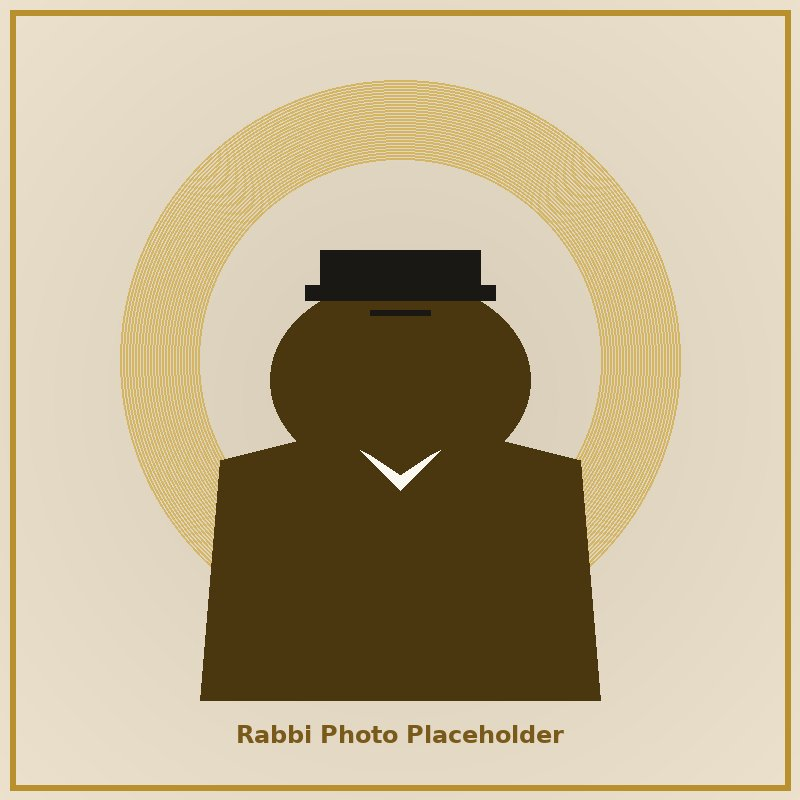
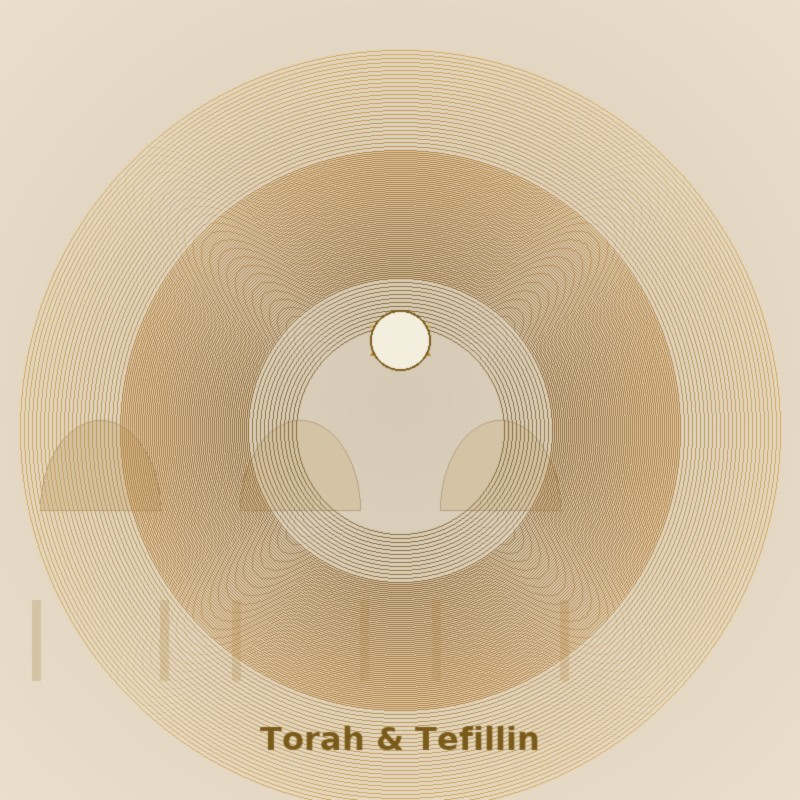
Add scroll-to-top floating button (gold, bottom-left), proper Rabbi placeholder, object-position for portrait centering, fix all standalone image URLs to point to arena branch

diff --git a/style.css b/style.css
@@ -1062,6 +1062,7 @@ ul, ol {
   width: 100%;
   height: 100%;
   object-fit: cover;
+  object-position: center 30%;
   display: block;
 }
 
@@ -2507,8 +2508,67 @@ ul, ol {
 }
 
 /* ──────────────────────────────────────────────────────────────────────────
-   TOAST
+   SCROLL-TO-TOP BUTTON
    ────────────────────────────────────────────────────────────────────────── */
+
+.scroll-top {
+  position: fixed;
+  bottom: 2rem;
+  left: 2rem;
+  width: 52px;
+  height: 52px;
+  display: grid;
+  place-items: center;
+  background: var(--gold-500);
+  color: var(--parchment-50);
+  border: 2px solid var(--parchment-50);
+  border-radius: 50%;
+  box-shadow: 0 6px 20px rgba(184, 144, 46, 0.35);
+  cursor: pointer;
+  z-index: var(--z-raised);
+  opacity: 0;
+  visibility: hidden;
+  transform: translateY(20px) scale(0.9);
+  transition:
+    opacity var(--dur-base) var(--ease-out),
+    transform var(--dur-base) var(--ease-spring),
+    visibility 0s linear var(--dur-base),
+    background var(--dur-fast) var(--ease-out);
+}
+
+.scroll-top.is-visible {
+  opacity: 1;
+  visibility: visible;
+  transform: translateY(0) scale(1);
+  transition:
+    opacity var(--dur-base) var(--ease-out),
+    transform var(--dur-base) var(--ease-spring),
+    visibility 0s linear 0s,
+    background var(--dur-fast) var(--ease-out);
+}
+
+.scroll-top:hover {
+  background: var(--gold-700);
+  transform: translateY(-3px) scale(1.05);
+}
+
+.scroll-top:active {
+  transform: translateY(0) scale(0.95);
+}
+
+.scroll-top svg {
+  width: 22px;
+  height: 22px;
+}
+
+@media (max-width: 768px) {
+  .scroll-top {
+    bottom: 1.5rem;
+    left: 1.5rem;
+    width: 48px;
+    height: 48px;
+  }
+}
 
 .toast {
   position: fixed;

diff --git a/kezohar-standalone.html b/kezohar-standalone.html
@@ -65,7 +65,7 @@
   <link rel="preload" as="style" href="https://fonts.googleapis.com/css2?family=Cormorant+Garamond:ital,wght@0,400;0,500;0,600;1,400;1,500&family=Frank+Ruhl+Libre:wght@400;500;700;800;900&family=Heebo:wght@300;400;500;600;700;800&display=swap">
   <link href="https://fonts.googleapis.com/css2?family=Cormorant+Garamond:ital,wght@0,400;0,500;0,600;1,400;1,500&family=Frank+Ruhl+Libre:wght@400;500;700;800;900&family=Heebo:wght@300;400;500;600;700;800&display=swap" rel="stylesheet">
 
-  <link rel="preload" as="image" href="https://raw.githack.com/nzm1000-sudo/kezohar369/main/images/hero.jpg" fetchpriority="high">
+  <link rel="preload" as="image" href="https://raw.githack.com/nzm1000-sudo/kezohar369/arena/019f8e45-kezohar369/images/synagogue.jpg" fetchpriority="high">
 
   <style>
 /* ════════════════════════════════════════════════════════════════════════════
@@ -2605,8 +2605,8 @@ ul, ol {
 }
 
 </style>
-  <link rel="icon" type="image/svg+xml" href="https://raw.githack.com/nzm1000-sudo/kezohar369/main/favicon.svg">
-  <link rel="icon" type="image/png" sizes="32x32" href="https://raw.githack.com/nzm1000-sudo/kezohar369/main/favicon-32.png">
+  <link rel="icon" type="image/svg+xml" href="https://raw.githack.com/nzm1000-sudo/kezohar369/arena/019f8e45-kezohar369/favicon.svg">
+  <link rel="icon" type="image/png" sizes="32x32" href="https://raw.githack.com/nzm1000-sudo/kezohar369/arena/019f8e45-kezohar369/favicon-32.png">
   <link rel="icon" type="image/png" sizes="16x16" href="favicon-16.png">
   <link rel="apple-touch-icon" sizes="180x180" href="apple-touch-icon.png">
   <link rel="manifest" href="manifest.json">
@@ -2736,7 +2736,7 @@ ul, ol {
           <div class="rabbi__layout">
             <figure class="rabbi__portrait reveal">
               <div class="portrait__frame">
-                <img src="https://raw.githack.com/nzm1000-sudo/kezohar369/main/images/rabbi2.jpg" alt="הרב שלום יוסף ברבי שליט״א בטלית ותפילין" loading="lazy" decoding="async" width="600" height="600">
+                <img src="https://raw.githack.com/nzm1000-sudo/kezohar369/arena/019f8e45-kezohar369/images/rabbi2.jpg" alt="הרב שלום יוסף ברבי שליט״א בטלית ותפילין" loading="lazy" decoding="async" width="600" height="600">
               </div>
               <figcaption class="portrait__caption">הרב שלום יוסף ברבי שליט״א</figcaption>
             </figure>
@@ -2818,7 +2818,7 @@ ul, ol {
                 <span class="figure__corner figure__corner--bl"></span>
                 <span class="figure__corner figure__corner--br"></span>
               </div>
-              <img src="https://raw.githack.com/nzm1000-sudo/kezohar369/main/images/synagogue.jpg" alt="הדמיית חזון — בית כנסת מפואר באבן ירושלמית" loading="lazy" decoding="async" width="800" height="1000">
+              <img src="https://raw.githack.com/nzm1000-sudo/kezohar369/arena/019f8e45-kezohar369/images/synagogue.jpg" alt="הדמיית חזון — בית כנסת מפואר באבן ירושלמית" loading="lazy" decoding="async" width="800" height="1000">
             </div>
             <figcaption class="figure__caption">
               <span class="caption__ornament" aria-hidden="true">✦</span>
@@ -2988,7 +2988,7 @@ ul, ol {
         <div class="gallery__grid reveal-stagger">
           <figure class="gallery__item">
             <div class="gallery__media">
-              <img src="https://raw.githack.com/nzm1000-sudo/kezohar369/main/images/synagogue.jpg" alt="היכל תפילה — אולם מפואר עם כיפה ועמודים" loading="lazy" decoding="async" width="800" height="1000">
+              <img src="https://raw.githack.com/nzm1000-sudo/kezohar369/arena/019f8e45-kezohar369/images/synagogue.jpg" alt="היכל תפילה — אולם מפואר עם כיפה ועמודים" loading="lazy" decoding="async" width="800" height="1000">
             </div>
             <figcaption class="gallery__caption">
               <span class="gallery__name">היכל תפילה</span>
@@ -2998,7 +2998,7 @@ ul, ol {
 
           <figure class="gallery__item">
             <div class="gallery__media">
-              <img src="https://raw.githack.com/nzm1000-sudo/kezohar369/main/images/torah-hall.jpg" alt="בית מדרש — ספרים, שולחנות ונברשות" loading="lazy" decoding="async" width="800" height="1000">
+              <img src="https://raw.githack.com/nzm1000-sudo/kezohar369/arena/019f8e45-kezohar369/images/torah-hall.jpg" alt="בית מדרש — ספרים, שולחנות ונברשות" loading="lazy" decoding="async" width="800" height="1000">
             </div>
             <figcaption class="gallery__caption">
               <span class="gallery__name">בית מדרש</span>
@@ -3008,7 +3008,7 @@ ul, ol {
 
           <figure class="gallery__item">
             <div class="gallery__media">
-              <img src="https://raw.githack.com/nzm1000-sudo/kezohar369/main/images/mikveh.jpg" alt="מקווה — בריכה באבן ירושלמית" loading="lazy" decoding="async" width="800" height="1000">
+              <img src="https://raw.githack.com/nzm1000-sudo/kezohar369/arena/019f8e45-kezohar369/images/mikveh.jpg" alt="מקווה — בריכה באבן ירושלמית" loading="lazy" decoding="async" width="800" height="1000">
             </div>
             <figcaption class="gallery__caption">
               <span class="gallery__name">מקוואות</span>
@@ -3018,7 +3018,7 @@ ul, ol {
 
           <figure class="gallery__item">
             <div class="gallery__media">
-              <img src="https://raw.githack.com/nzm1000-sudo/kezohar369/main/images/main-hall.jpg" alt="אולם קהילה — אולם מרכזי מפואר" loading="lazy" decoding="async" width="800" height="1000">
+              <img src="https://raw.githack.com/nzm1000-sudo/kezohar369/arena/019f8e45-kezohar369/images/main-hall.jpg" alt="אולם קהילה — אולם מרכזי מפואר" loading="lazy" decoding="async" width="800" height="1000">
             </div>
             <figcaption class="gallery__caption">
               <span class="gallery__name">אולם קהילה</span>
@@ -3028,7 +3028,7 @@ ul, ol {
 
           <figure class="gallery__item">
             <div class="gallery__media">
-              <img src="https://raw.githack.com/nzm1000-sudo/kezohar369/main/images/lecture-hall.jpg" alt="מרכז חסד — אולם הרצאות" loading="lazy" decoding="async" width="800" height="1000">
+              <img src="https://raw.githack.com/nzm1000-sudo/kezohar369/arena/019f8e45-kezohar369/images/lecture-hall.jpg" alt="מרכז חסד — אולם הרצאות" loading="lazy" decoding="async" width="800" height="1000">
             </div>
             <figcaption class="gallery__caption">
               <span class="gallery__name">מרכז חסד</span>
@@ -3455,6 +3455,13 @@ ul, ol {
   </footer>
 
   <!-- Mobile persistent CTA — REMOVED per user request -->
+
+  <!-- Scroll-to-top floating button -->
+  <button class="scroll-top" id="scrollTop" type="button" aria-label="חזרה לראש העמוד" title="חזרה לראש העמוד">
+    <svg viewBox="0 0 24 24" fill="none" aria-hidden="true">
+      <path d="M12 4 L20 14 L14 14 L14 20 L10 20 L10 14 L4 14 Z" fill="currentColor"/>
+    </svg>
+  </button>
 
   <div class="toast" id="toast" role="status" aria-live="polite"></div>
 
@@ -3944,6 +3951,28 @@ if (loader) {
       currentFilter = f.dataset.filter;
       applyFilters();
     });
+  });
+})();
+
+/* ─── SCROLL-TO-TOP BUTTON ─── */
+(() => {
+  const btn = $('#scrollTop');
+  if (!btn) return;
+
+  // Show button after scrolling 600px
+  const onScroll = () => {
+    if (window.scrollY > 600) {
+      btn.classList.add('is-visible');
+    } else {
+      btn.classList.remove('is-visible');
+    }
+  };
+  onScroll();
+  window.addEventListener('scroll', onScroll, { passive: true });
+
+  // Scroll to top on click
+  btn.addEventListener('click', () => {
+    window.scrollTo({ top: 0, behavior: 'smooth' });
   });
 })();
 

diff --git a/main.js b/main.js
@@ -211,6 +211,28 @@ if (loader) {
   });
 })();
 
+/* ─── SCROLL-TO-TOP BUTTON ─── */
+(() => {
+  const btn = $('#scrollTop');
+  if (!btn) return;
+
+  // Show button after scrolling 600px
+  const onScroll = () => {
+    if (window.scrollY > 600) {
+      btn.classList.add('is-visible');
+    } else {
+      btn.classList.remove('is-visible');
+    }
+  };
+  onScroll();
+  window.addEventListener('scroll', onScroll, { passive: true });
+
+  // Scroll to top on click
+  btn.addEventListener('click', () => {
+    window.scrollTo({ top: 0, behavior: 'smooth' });
+  });
+})();
+
 /* ─── DONATE AMOUNT ANIMATION (count-up) ─── */
 // (skipped — no fake numbers)
 

diff --git a/index.html b/index.html
@@ -906,6 +906,13 @@
 
   <!-- Mobile persistent CTA — REMOVED per user request -->
 
+  <!-- Scroll-to-top floating button -->
+  <button class="scroll-top" id="scrollTop" type="button" aria-label="חזרה לראש העמוד" title="חזרה לראש העמוד">
+    <svg viewBox="0 0 24 24" fill="none" aria-hidden="true">
+      <path d="M12 4 L20 14 L14 14 L14 20 L10 20 L10 14 L4 14 Z" fill="currentColor"/>
+    </svg>
+  </button>
+
   <div class="toast" id="toast" role="status" aria-live="polite"></div>
 
   <script src="https://cdn.jsdelivr.net/npm/three@0.160.0/build/three.min.js"></script>